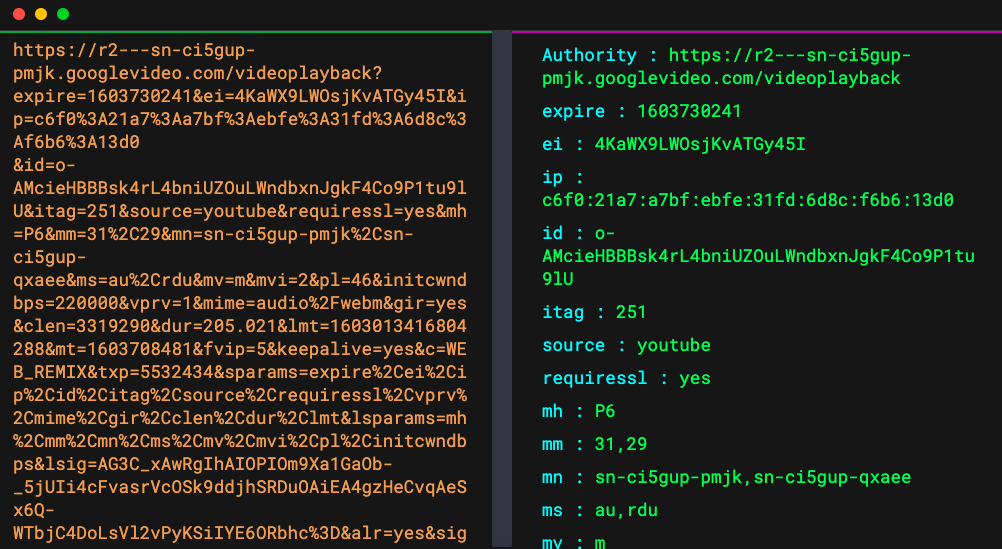
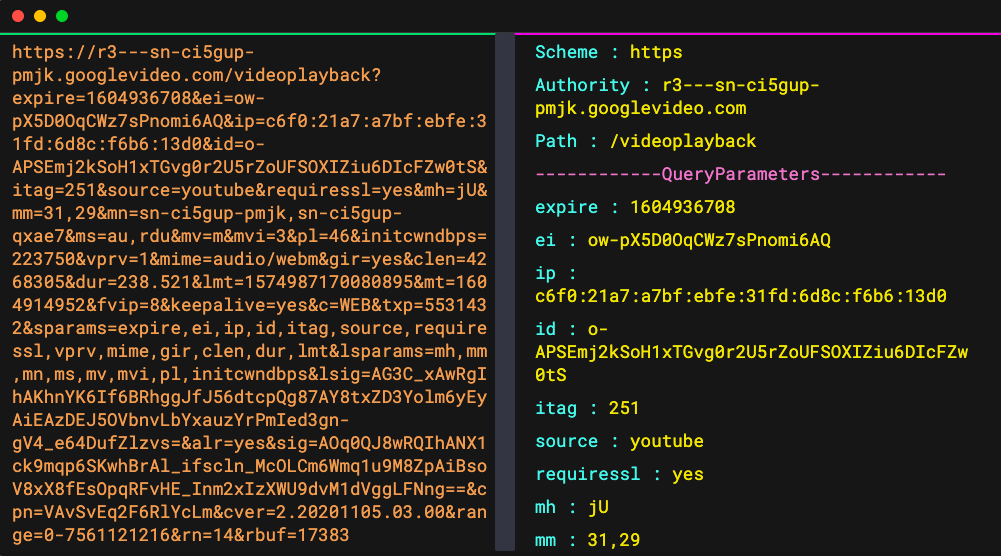
Added support for Safari

Changed region(s): [[0.0, 0.0, 1.0, 0.9909], [0.4955, 0.2477, 0.991, 1.0], [0.6813, 0.6812, 0.7123, 0.7122]]

diff --git a/src/components/parser.js b/src/components/parser.js
@@ -2,9 +2,9 @@ class Parser {
     constructor(uri) {
         this.uri = uri.trim();
         this.Verifier = /^((http|https|ftp|mailto|file|data|irc):)(\/\/([^/?#]*))([^?#]*)(\?([^#]*))?(#(.*))?/;
-        this.valueRegex = /(?<=&?\w+=)[=\w,.-:_-]+/g;
-        this.keyRegex = /(?<=[&?])[\w\d]+/g;
-        this.seperator = /^(http|https|ftp|mailto|file|data|irc):\/\/([^/?#]*)([^?#]*)?(\?[^#]*)?#?(.*)?/g;
+        // this.valueLookbehindRegex = /(?<=&?\w+=)[=\w,.-:_-]+/g;
+        // this.keyLookbehindRegex = /(?<=[&?])[\w\d]+/g;
+        this.seperator = /^(http|https|ftp|mailto|file|data|irc):\/\/([^/?#]*)([^?#]*)?\??([^#]*)?#?(.*)?/g;
     }
     decoder() {
         this.decoded_URI = decodeURIComponent(this.uri);
@@ -50,16 +50,12 @@ class Parser {
                     key: 'QueryParameters',
                     value: '---------------QueryParameters---------------',
                 });
-                let key = [
-                    ...this.componentsMapper['Query'].match(this.keyRegex),
-                ];
-                let value = [
-                    ...this.componentsMapper['Query'].match(this.valueRegex),
-                ];
-                value.forEach((value, index) => {
-                    let keyClone = key[index];
-                    let obj = { key: keyClone, value: value };
-                    parsed.push(obj);
+                let pairs = this.componentsMapper['Query'].split('&');
+                pairs.forEach((item) => {
+                    parsed.push({
+                        key: item.split('=')[0],
+                        value: item.split('=')[1],
+                    });
                 });
             }
             return parsed;

diff --git a/src/components/parser.vue b/src/components/parser.vue
@@ -69,7 +69,7 @@
   color: #f3e143;
 }
 .QueryParameters {
-  color: #e2838f;
+  color: #e283ca;
 }
 .parsedDiv {
   display: block;
